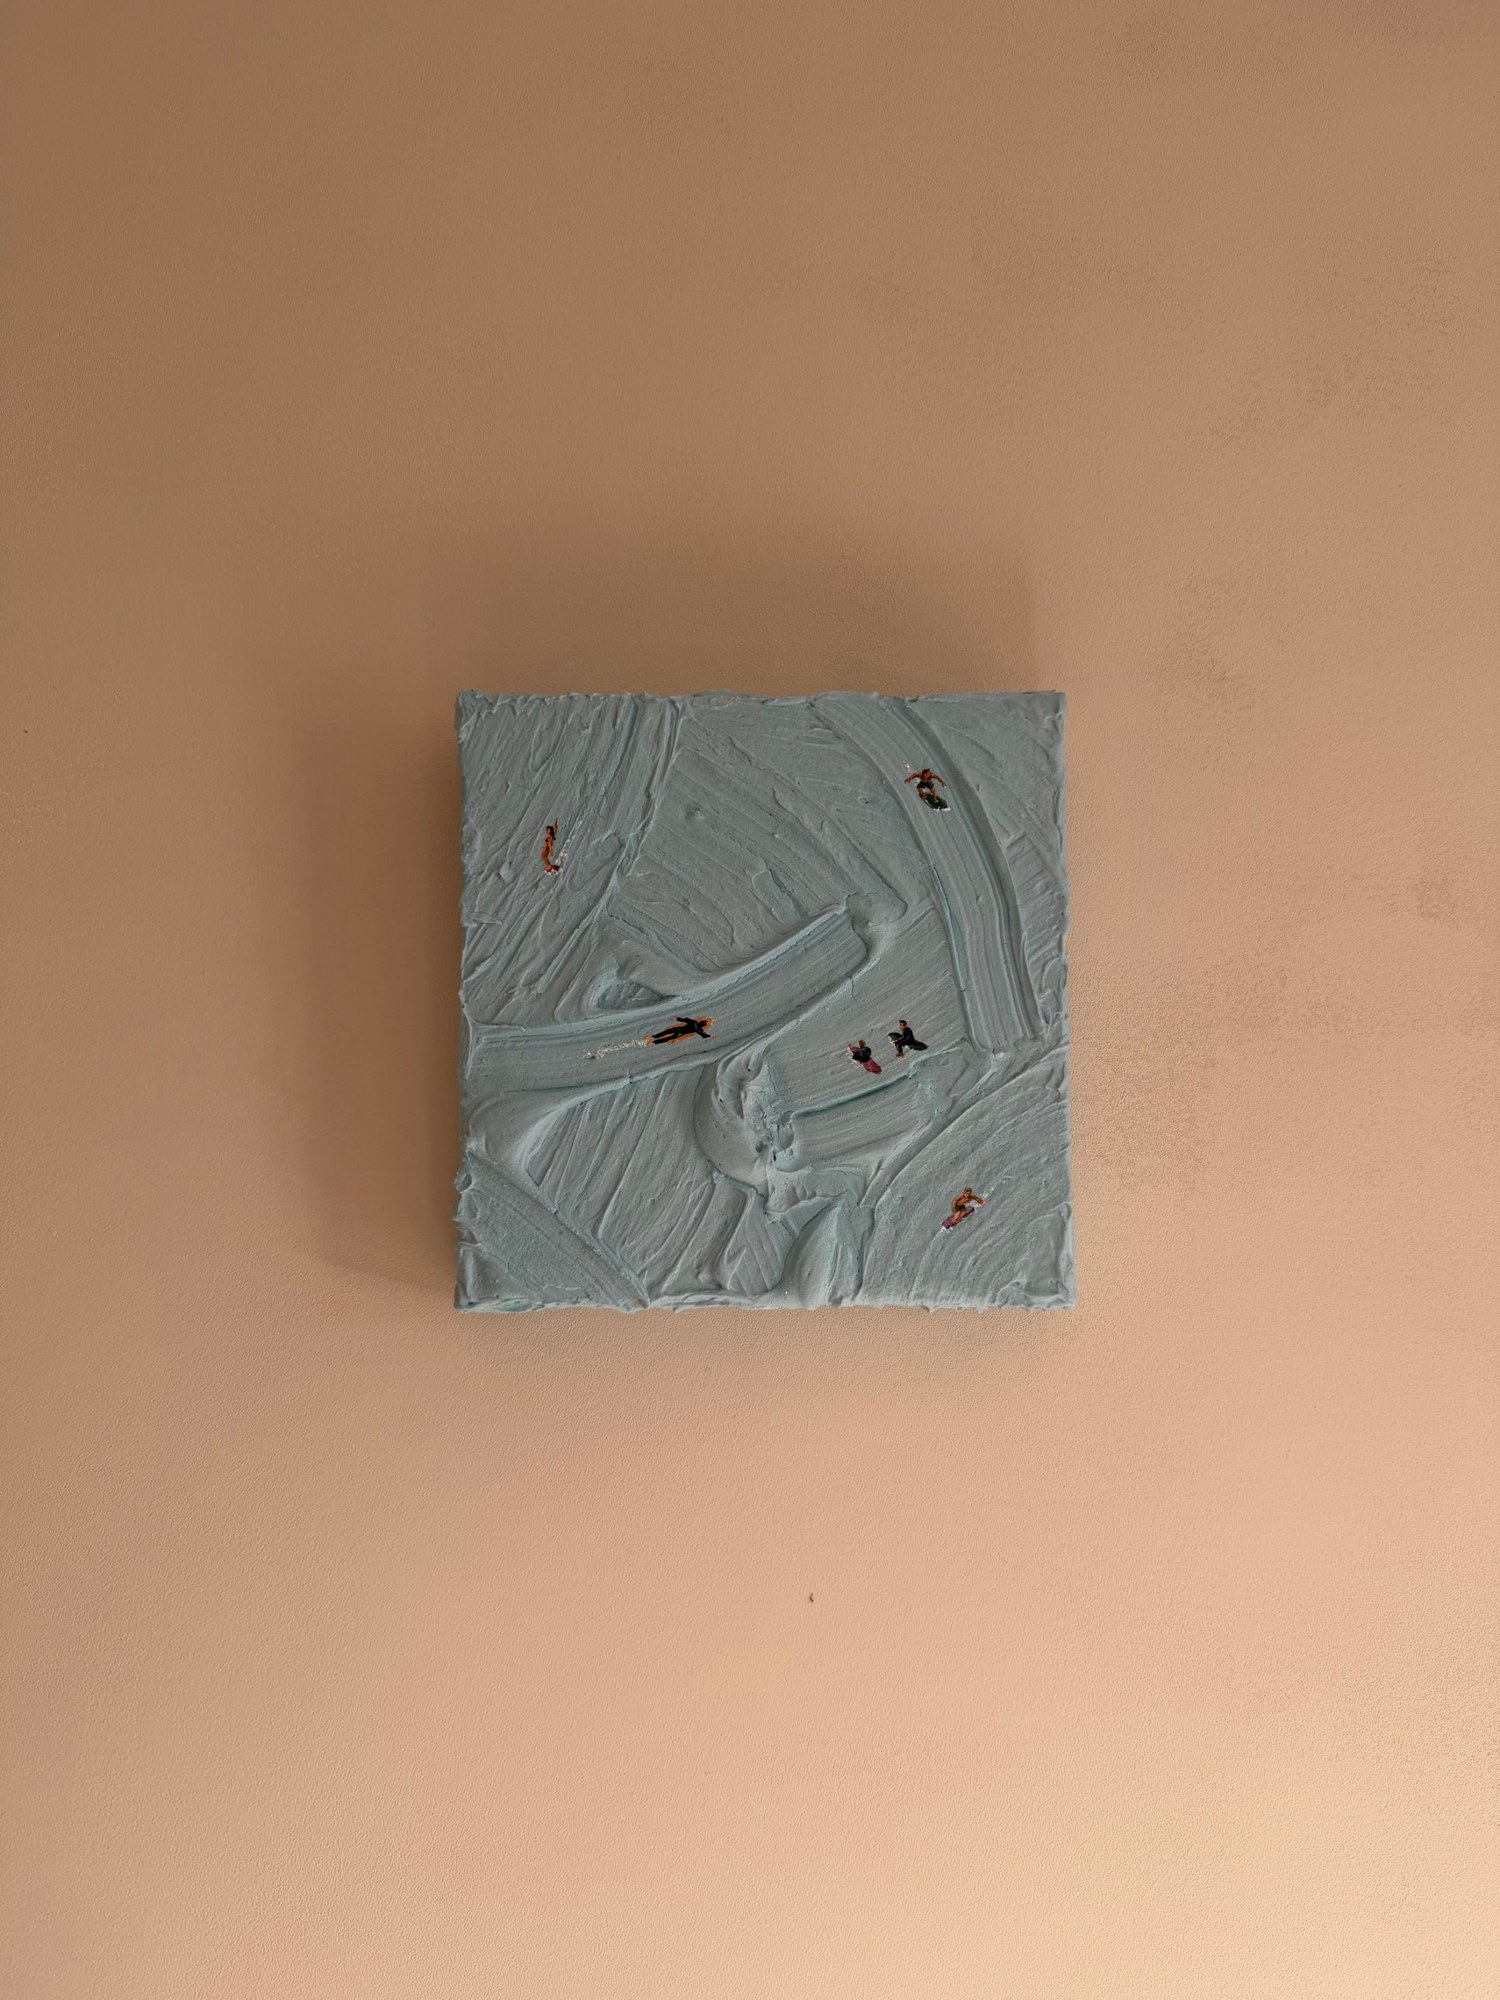
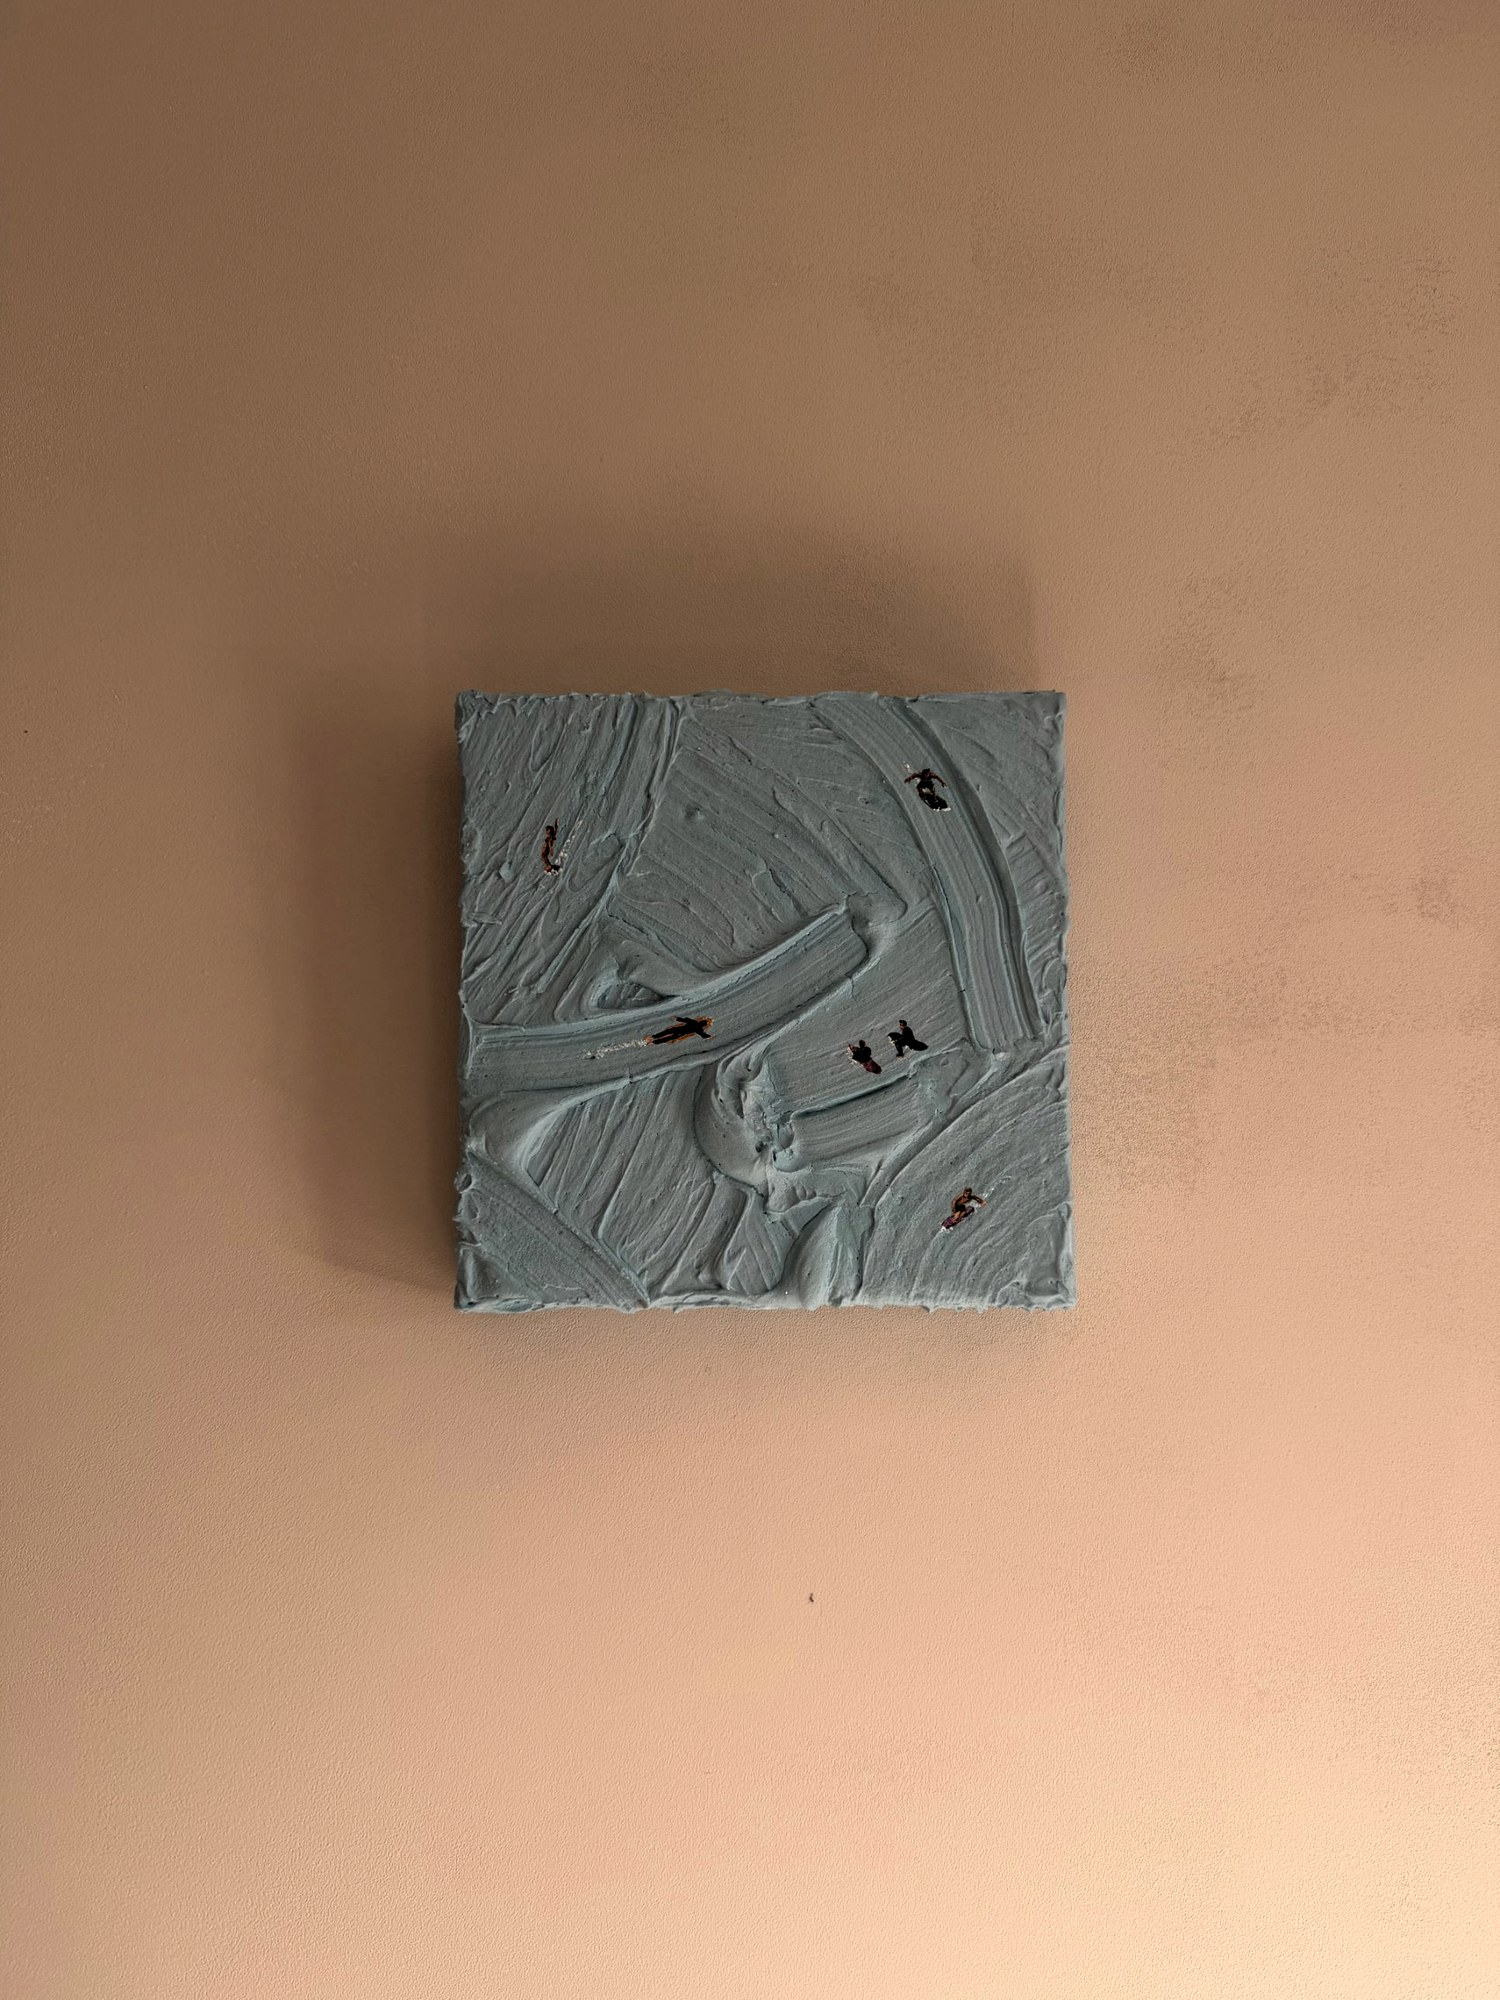
Works photos: crop lead photos to the canvas, correct lighting
- lead photo of each work cropped to the painted canvas, so it fills its
  frame on the homepage and Works page (wall views stay on the work page)
- exposure and white balance corrected from the wall (neutral light grey);
  Catching Waves only brightness/contrast, as its peach wall is no neutral
  reference
- scripts/works/prepare-photos.py documents the crops and corrections

Claude-Session: https://claude.ai/code/session_01DcMbw9rxKcr735LjxqFb9d

diff --git a/scripts/works/prepare-photos.py b/scripts/works/prepare-photos.py
@@ -1,0 +1,60 @@
+# Crops the lead photos to the canvas and corrects lighting/white balance from the wall.
+# Source photos are not in the repo; paths point at the original uploads.
+import numpy as np
+from PIL import Image, ImageOps
+U = "/root/.claude/uploads/d9986b95-2e35-5186-b2b6-d3a170b39554"
+
+def load(f):
+    return np.asarray(ImageOps.exif_transpose(Image.open(f"{U}/{f}-image.jpg")).convert("RGB")).astype(np.float32)
+
+def wall_gains(a, strength=0.75):
+    """White balance + exposure from the wall at the photo's border: the wall should be a neutral light grey."""
+    b = np.concatenate([a[:60].reshape(-1, 3), a[-60:].reshape(-1, 3), a[:, :60].reshape(-1, 3), a[:, -60:].reshape(-1, 3)])
+    wall = np.median(b, 0)
+    target = np.full(3, 236.0)
+    g = np.clip(target / wall, 0.85, 1.35)
+    return 1 + (g - 1) * strength
+
+def apply(a, g):
+    out = a * g
+    # gentle highlight roll-off instead of hard clipping
+    out = np.where(out > 230, 230 + (out - 230) * 0.45, out)
+    return np.clip(out, 0, 255)
+
+def levels(a, lo=0.4, hi=99.6, amount=0.6):
+    """Luminance stretch only (no colour change) for photos without a neutral wall."""
+    y = a.mean(-1)
+    p0, p1 = np.percentile(y, [lo, hi])
+    s = (y - p0) / max(p1 - p0, 1) * 255
+    k = np.where(y > 1, s / np.maximum(y, 1), 1)[..., None]
+    return np.clip(a * (1 + (k - 1) * amount), 0, 255)
+
+def save(a, path, crop=None):
+    im = Image.fromarray(a.astype(np.uint8))
+    if crop: im = im.crop(crop)
+    im.thumbnail((2000, 2000), Image.LANCZOS)
+    im.save(path, quality=88, optimize=True, progressive=True)
+    print(path, im.size)
+
+W = "content/works"
+# (lead photo, canvas box), then the other photos of the same work
+works = {
+    "work-1": (("a87d01af", (148, 408, 1778, 2008)), ["4d16d0e4", "739291d4", "b488b9e4"]),
+    "work-2": (("1baca1ef", (184, 448, 1685, 1975)), ["cde29afd", "81260cca", "3420d565"]),
+    "work-4": (("f7b34a46", (102, 392, 1808, 2096)), ["c9122423", "e827816a", "b9407473"]),
+}
+for slug, ((lead, box), rest) in works.items():
+    a = load(lead); g = wall_gains(a)
+    print(slug, "gains", g.round(3))
+    save(apply(a, g), f"{W}/{slug}/images/01.jpg", box)
+    for i, f in enumerate(rest, start=2):
+        b = load(f)
+        has_wall = f in ("4d16d0e4", "739291d4", "b488b9e4", "cde29afd", "81260cca", "3420d565", "b9407473")
+        save(apply(b, wall_gains(b) if has_wall else g), f"{W}/{slug}/images/0{i}.jpg")
+
+# Catching Waves: the wall is painted peach, so it is no neutral reference -> brightness/contrast only
+cw = f"{W}/2026-catching-waves/images"
+save(levels(load("666a9a99")), f"{cw}/new-01.jpg", (184, 454, 1716, 2006))
+for i, f in enumerate(["41e5f9f2", "0a630a29", "22c47c72", "da2d25b5", "c6d69931"], start=2):
+    save(levels(load(f)), f"{cw}/new-0{i}.jpg")
+save(levels(load("16437a2b"), amount=0.4), f"{cw}/new-07.jpg")
